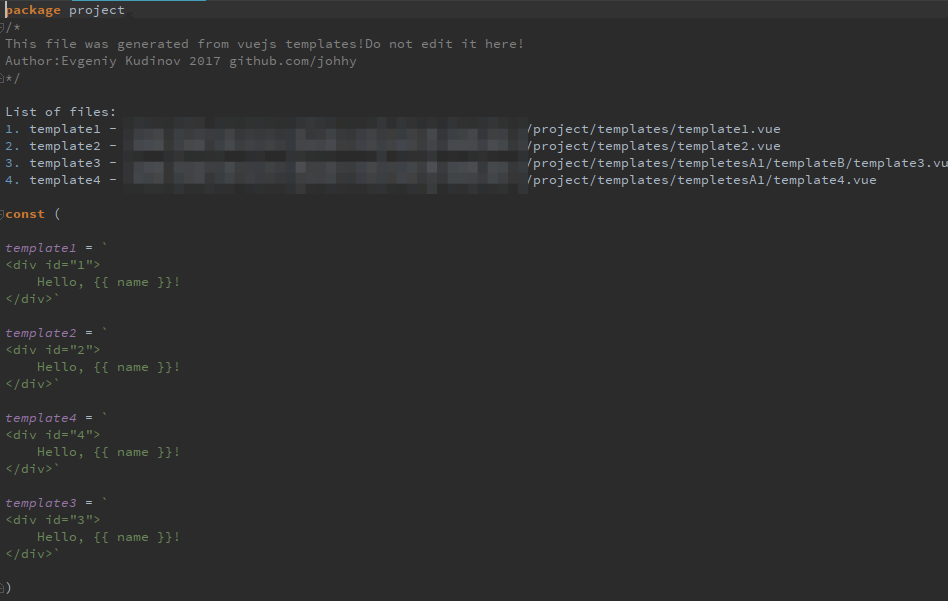
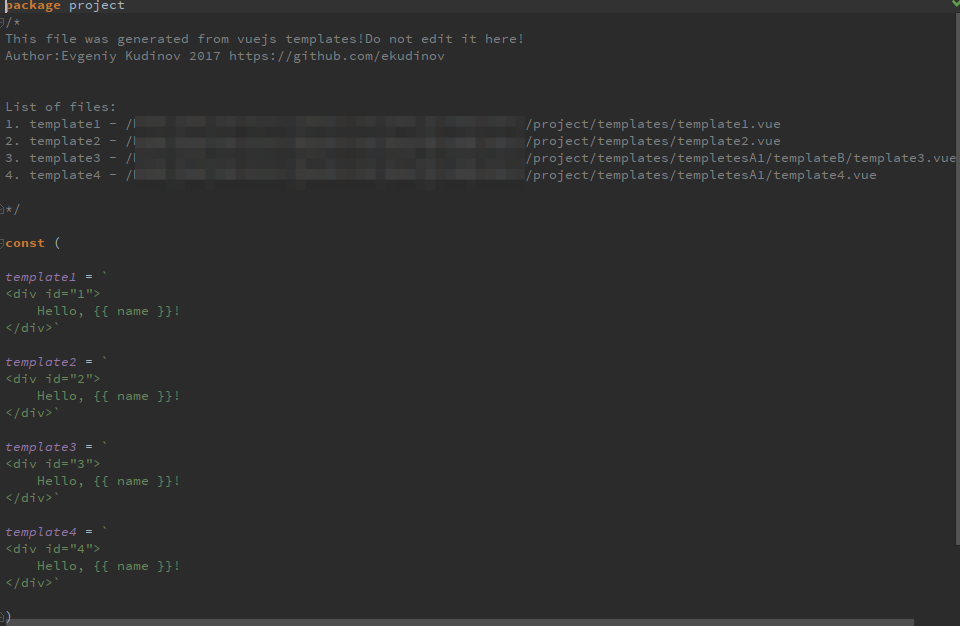
Add comments for List files in generated go file and constants as they lists in comments with tests.

diff --git a/cmd/cmd.go b/cmd/cmd.go
@@ -19,10 +19,12 @@ const (
 /*
 This file was generated from vuejs templates!Do not edit it here!
 Author:Evgeniy Kudinov 2017 https://github.com/ekudinov
-*/
+
 
 List of files:
 %s
+*/
+
 const (
 
 `
@@ -140,11 +142,11 @@ func (app *App) MakeFile() error {
 	}
 
 	//write body
-	for name, data := range app.Names {
-		if _, err := file.WriteString(name + " = `\n"); err != nil {
+	for _, k := range keys {
+		if _, err := file.WriteString(k + " = `\n"); err != nil {
 			return err
 		}
-		if _, err := file.WriteString(data.Content + "`\n\n"); err != nil {
+		if _, err := file.WriteString(app.Names[k].Content + "`\n\n"); err != nil {
 			return err
 		}
 	}
